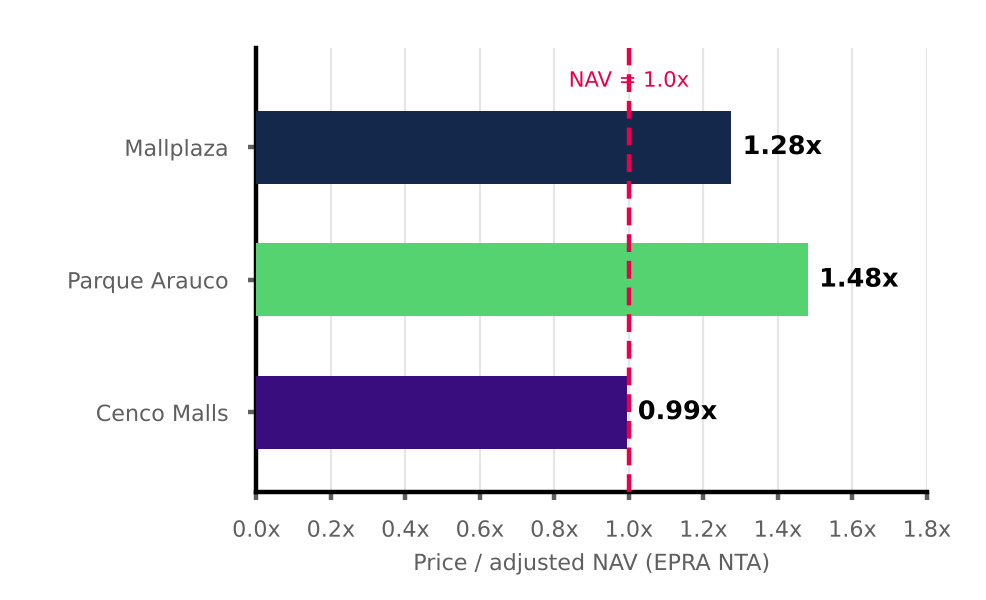
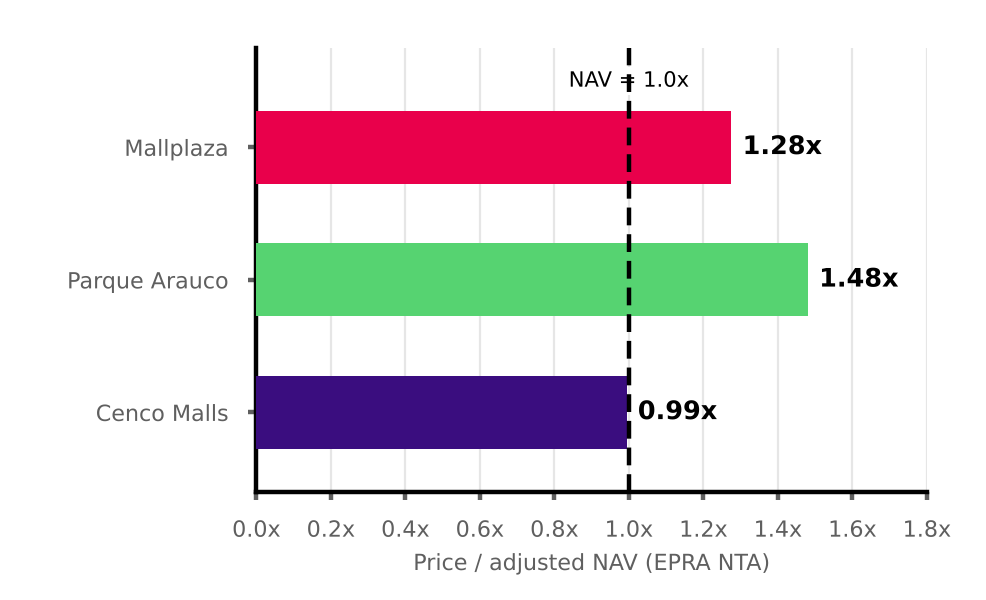
V20 (P/NAV): Mallplaza en rojo; línea de NAV en negro
Claude-Session: https://claude.ai/code/session_0188QZHBkA8n5QL7BtmFakQg

diff --git a/secciones/valuacion/graficos/datos_mercado.py b/secciones/valuacion/graficos/datos_mercado.py
@@ -127,19 +127,19 @@ def pnav(nav, lang, salida):
     es = lang == "es"
     v = nav["P/NAV ajustado"]
     nombres = ["Mallplaza", "Parque Arauco", "Cenco Malls"]
-    cols = [AZUL, VERDE_PARQUE_ARAUCO, MORADO_CENCOSUD]
+    cols = [ROJO, VERDE_PARQUE_ARAUCO, MORADO_CENCOSUD]
     fig = plt.figure(figsize=(ANCHO, 1.5))
     ax = fig.add_axes([0.26, 0.18, 0.68, 0.74])
     y = np.arange(3)[::-1]
     ax.barh(y, v, color=cols, height=0.55, zorder=3)
-    ax.axvline(1.0, color=ROJO, linewidth=0.8, linestyle=(0, (4, 2)), zorder=4)
+    ax.axvline(1.0, color=NEGRO, linewidth=0.8, linestyle=(0, (4, 2)), zorder=4)
     for yy, val in zip(y, v):
         ax.text(val + 0.03, yy, f"{num(val, lang, 2)}x", fontsize=4.6, fontweight="bold", color=NEGRO, va="center")
     ax.set_yticks(y); ax.set_yticklabels(nombres, fontsize=4.6, color=NEGRO)
     ax.set_xlim(0, 1.8)
     ax.xaxis.set_major_formatter(lambda t, _: f"{num(t, lang, 1)}x")
     ax.set_ylim(-0.6, 2.75)
-    ax.text(1.0, 2.42, "NAV = 1,0x" if es else "NAV = 1.0x", fontsize=3.8, color=ROJO, ha="center", va="bottom")
+    ax.text(1.0, 2.42, "NAV = 1,0x" if es else "NAV = 1.0x", fontsize=3.8, color=NEGRO, ha="center", va="bottom", bbox=dict(facecolor="white", edgecolor="none", pad=0.6))
     ax.tick_params(labelsize=4.0, length=1.5, colors=TINTA_SECUNDARIA)
     ax.grid(axis="x", color=GRILLA, linewidth=0.4, zorder=0)
     for s in ("top", "right"):
